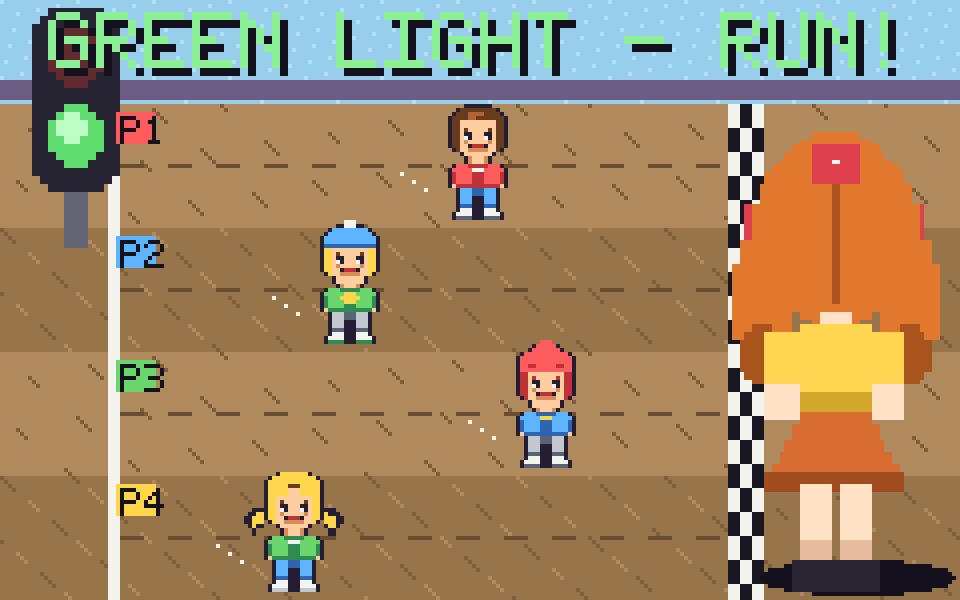
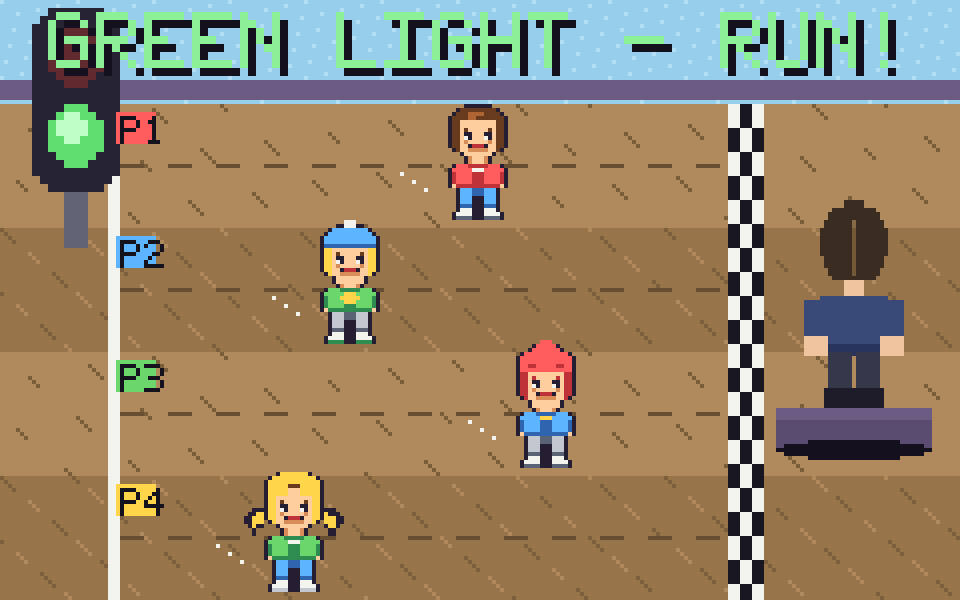
RLGL mockup: male catcher, smaller, at right-side middle on a podium
Replaced the giant doll with a smaller male overseer (navy jacket, red
tie) standing on a podium at the right-side middle; back-turned = green,
facing = red. Still clearly bigger than the players.

Claude-Session: https://claude.ai/code/session_01BmHu9ZjHHfJoGBLXT33Kpc

Changed region(s): [[0.75, 0.21, 1.0, 1.0]]

diff --git a/art/rlgl.py b/art/rlgl.py
@@ -30,43 +30,40 @@ def px(im, x, y, c):
     if 0 <= x < im.width and 0 <= y < im.height: im.putpixel((x, y), (*c, 255))
 
 # ---------------------------------------------------------------------------
-# THE DOLL  (native ~36x72) — front (watching, RED) and back (turned, GREEN)
+# THE CATCHER — a male overseer (native ~26x46). back = GREEN (turned away),
+# front = RED (facing the racers, watching). Smaller than the old doll but still
+# clearly bigger than the players.
 # ---------------------------------------------------------------------------
-def doll(front=True):
-    W, H = 36, 72
+HHAIR = (58, 44, 32); HSKIN = (240, 196, 158); HSKND = (206, 162, 126)
+JAK = (58, 74, 120); JAKD = (40, 52, 92); TIE = (222, 72, 82); PANT = (52, 56, 74); BSHOE = (30, 28, 40)
+
+def catcher(front=True):
+    W, H = 26, 46
     im = Image.new("RGBA", (W, H), (0, 0, 0, 0)); d = ImageDraw.Draw(im)
-    # pigtails behind
-    for sx in (3, 25):
-        d.ellipse([sx, 16, sx + 8, 40], fill=(*HAIR, 255)); d.ellipse([sx + 1, 17, sx + 7, 33], fill=(*HAIR, 255))
-        d.ellipse([sx + 1, 32, sx + 7, 40], fill=(*HAIRD, 255))
-        d.rectangle([sx + 2, 14, sx + 6, 18], fill=(*BOW, 255))            # hair ties
-    # head hair
-    d.ellipse([6, 3, 30, 31], fill=(*HAIR, 255))
+    # head
+    d.ellipse([6, 2, 20, 18], fill=(*HHAIR, 255))                         # hair
     if front:
-        d.ellipse([9, 8, 27, 30], fill=(*FACE, 255))                      # face
-        d.rectangle([9, 8, 27, 14], fill=(*HAIR, 255))                    # bangs
-        d.ellipse([9, 12, 27, 16], fill=(*HAIR, 255))
-        for ex in (14, 21):                                              # eyes
-            d.ellipse([ex, 18, ex + 2, 21], fill=(*EYE, 255))
-        px(im, 13, 24, CHEEK); px(im, 14, 24, CHEEK); px(im, 22, 24, CHEEK); px(im, 23, 24, CHEEK)
-        d.rectangle([17, 25, 19, 27], fill=(*EYE, 255))                  # mouth
-        d.ellipse([16, 22, 20, 25], outline=None)
+        d.ellipse([7, 6, 19, 20], fill=(*HSKIN, 255))                    # face
+        d.rectangle([7, 6, 19, 9], fill=(*HHAIR, 255))                   # hairline
+        for ex in (10, 14):                                             # stern eyes + brows
+            d.rectangle([ex, 12, ex + 1, 13], fill=(*EYE, 255)); d.rectangle([ex - 1, 10, ex + 2, 10], fill=(*HHAIR, 255))
+        d.rectangle([11, 16, 15, 16], fill=(*HSKND, 255))               # flat mouth
     else:
-        d.ellipse([7, 4, 29, 30], fill=(*HAIR, 255))                     # full hair (no face)
-        d.line([18, 6, 18, 28], fill=(*HAIRD, 255))                      # hair part
-        d.rectangle([15, 5, 21, 10], fill=(*BOW, 255)); px(im, 18, 7, WHITE)  # back bow
-    # neck + shirt
-    d.rectangle([16, 30, 20, 33], fill=(*FACE, 255))
-    d.rounded_rectangle([11, 32, 25, 45], 3, fill=(*SHIRT, 255)); d.rectangle([11, 42, 25, 45], fill=(*SHIRTD, 255))
+        d.ellipse([6, 3, 20, 19], fill=(*HHAIR, 255)); d.line([13, 6, 13, 17], fill=(0, 0, 0, 60))  # back of head
+    # neck
+    d.rectangle([11, 19, 15, 22], fill=(*HSKIN, 255))
+    # jacket
+    d.rounded_rectangle([5, 22, 21, 34], 2, fill=(*JAK, 255)); d.rectangle([5, 32, 21, 34], fill=(*JAKD, 255))
+    if front:
+        d.polygon([(13, 22), (10, 27), (13, 27)], fill=(*JAKD, 255)); d.polygon([(13, 22), (16, 27), (13, 27)], fill=(*JAKD, 255))
+        d.rectangle([12, 23, 14, 31], fill=(*TIE, 255))                 # tie
     # arms
-    for ax in (8, 24):
-        d.rectangle([ax, 33, ax + 4, 43], fill=(*SHIRT, 255)); d.rectangle([ax, 41, ax + 4, 45], fill=(*FACE, 255))
-    # skirt
-    d.polygon([(13, 45), (23, 45), (28, 56), (8, 56)], fill=(*SKIRT, 255)); d.polygon([(8, 54), (28, 54), (28, 56), (8, 56)], fill=(*SKIRTD, 255))
-    # legs + shoes
-    for lx in (13, 19):
-        d.rectangle([lx, 56, lx + 4, 67], fill=(*FACE, 255)); d.rectangle([lx, 64, lx + 4, 67], fill=(*FACED, 255))
-        d.rectangle([lx - 1, 67, lx + 5, 71], fill=(*SHOE, 255))
+    for ax in (3, 19):
+        d.rectangle([ax, 23, ax + 4, 32], fill=(*JAK, 255)); d.rectangle([ax, 31, ax + 4, 34], fill=(*HSKIN, 255))
+    # pants + shoes
+    for lx in (8, 14):
+        d.rectangle([lx, 34, lx + 4, 42], fill=(*PANT, 255))
+        d.rectangle([lx - 1, 42, lx + 5, 46], fill=(*BSHOE, 255))
     return im
 
 # ---------------------------------------------------------------------------
@@ -131,10 +128,12 @@ def scene(state, count, progress=None):
         for k in range(3):
             c = WHITE if ((y // 6) + k) % 2 == 0 else INK
             d.rectangle([FIN_X + k * 3, y, FIN_X + k * 3 + 2, y + 5], fill=(*c, 255))
-    # the giant doll, standing on the right overseeing every lane
-    dl = doll(front=red); sc = (H - 30) / dl.height; dl = dl.resize((int(dl.width * sc), int(dl.height * sc)), Image.NEAREST)
-    d.ellipse([FIN_X + 8, H - 10, W - 2, H - 2], fill=(20, 16, 30, 90))   # shadow
-    im.alpha_composite(dl, (W - dl.width - 2, H - dl.height - 2))
+    # the catcher — a male overseer on a podium at the RIGHT-MIDDLE
+    ct = catcher(front=red); sc = 54 / ct.height; ct = ct.resize((int(ct.width * sc), int(ct.height * sc)), Image.NEAREST)
+    cx = W - ct.width - 12; feet = H // 2 + ct.height // 2                # vertically centred
+    d.rectangle([cx - 4, feet, cx + ct.width + 4, feet + 9], fill=(*WALLBG2, 255)); d.rectangle([cx - 4, feet, cx + ct.width + 4, feet + 2], fill=(*WALLBG, 255))
+    d.ellipse([cx - 4, feet + 8, cx + ct.width + 4, feet + 12], fill=(20, 16, 30, 90))
+    im.alpha_composite(ct, (cx, feet - ct.height))
     # signal lamp top-left of the field
     lp = lamp(red); lp = lp.resize((lp.width * 2, lp.height * 2), Image.NEAREST)
     im.alpha_composite(lp, (6, 2))
@@ -172,8 +171,8 @@ def scene(state, count, progress=None):
 # ---------------------------------------------------------------------------
 def assets_sheet():
     items = []
-    items.append(("DOLL: GREEN", doll(False)))
-    items.append(("DOLL: RED", doll(True)))
+    items.append(("CATCHER: GO", catcher(False)))
+    items.append(("CATCHER: STOP", catcher(True)))
     items.append(("LAMP GO", lamp(False)))
     items.append(("LAMP STOP", lamp(True)))
     # track tile
